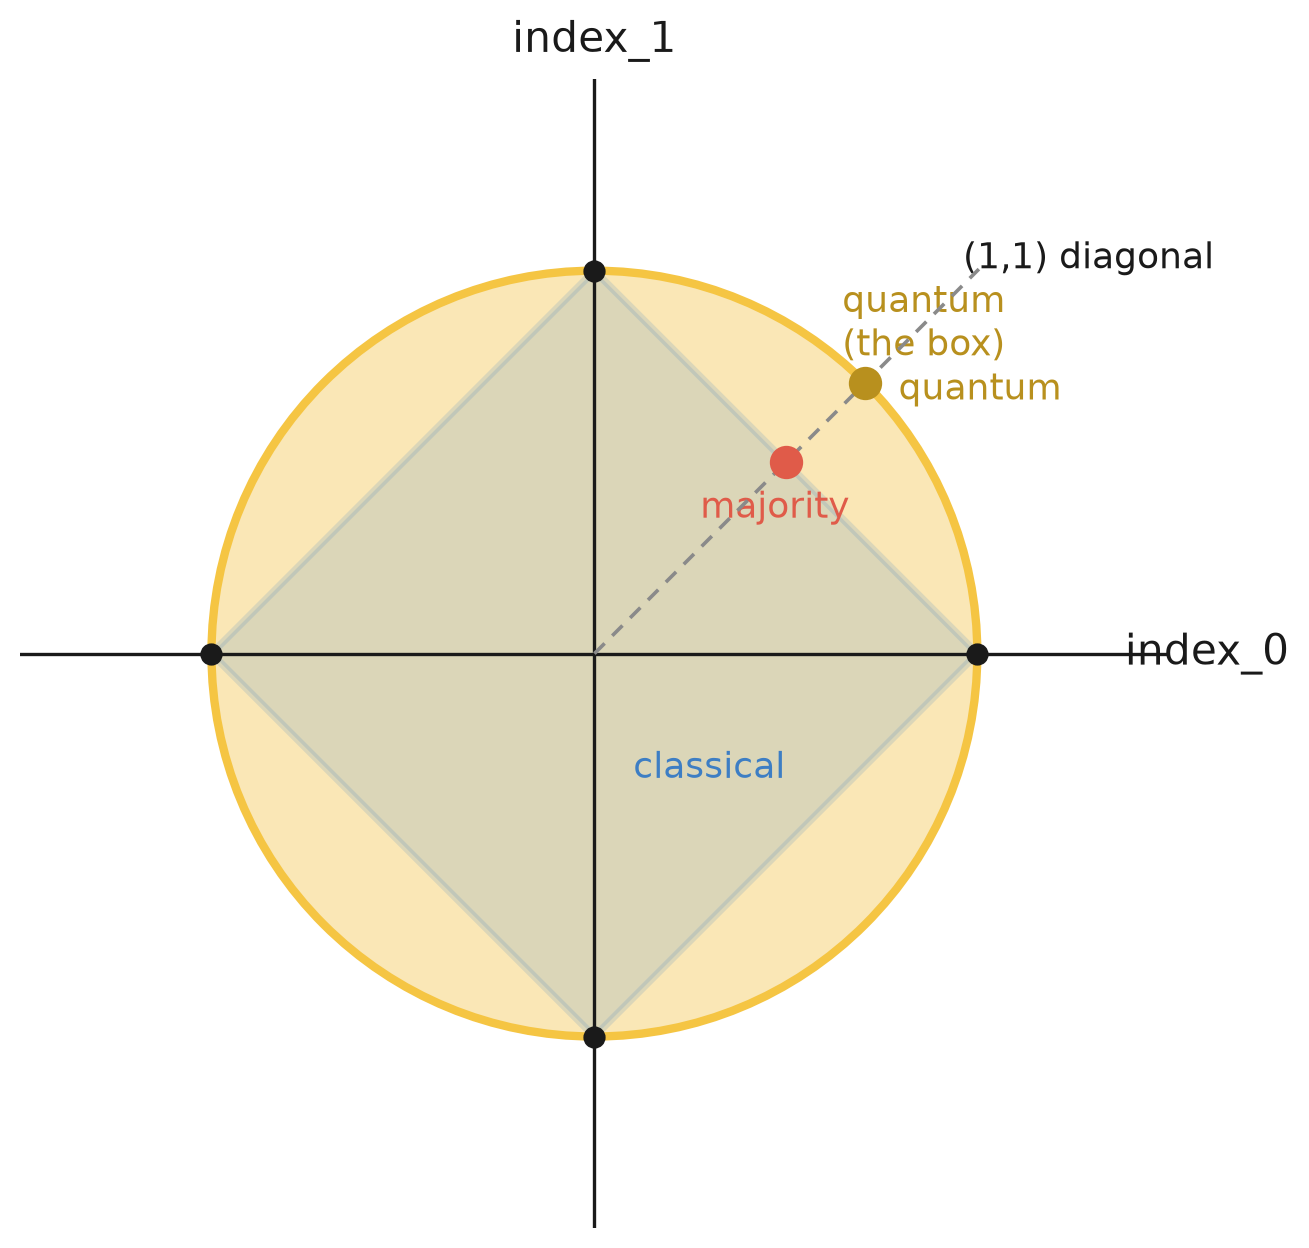
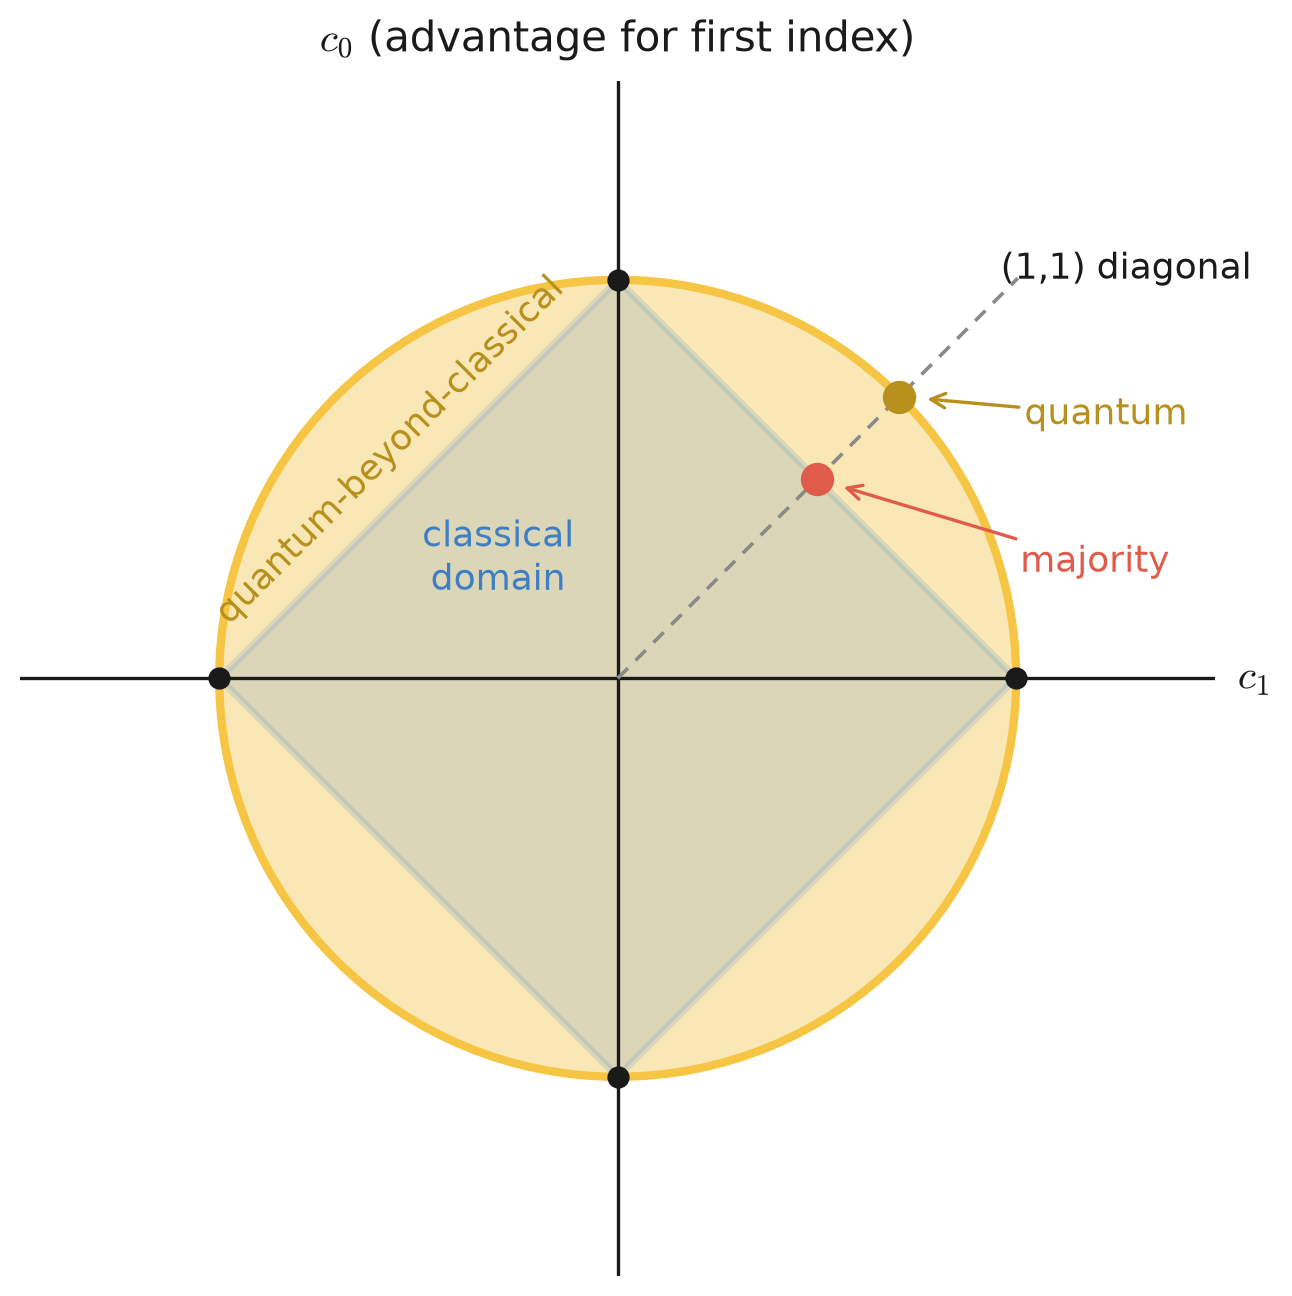
update

Changed region(s): [[0.031, 0.0, 0.9907, 0.9688], [0.2477, 0.2812, 0.2786, 0.3125], [0.2477, 0.0312, 0.2786, 0.0625]]

diff --git a/2D_primitive_image_mpltlib.py b/2D_primitive_image_mpltlib.py
@@ -39,7 +39,7 @@ SHOW_DIAGONAL   = True      # the (1,1) diagonal callout, matching 3D (1,1,1)
 SHOW_MAJORITY   = True
 SHOW_QUANTUM    = True
 SHOW_LABELS     = True
-AXIS_LABELS     = ("index_0", "index_1")
+AXIS_LABELS     = (r"$c_1$", r"$c_0$ (advantage for first index)")
 LIM = 1.5
 AXIS_LEN = 1.5
 # =====================================================================
@@ -101,21 +101,25 @@ def main():
         q = 1/np.sqrt(2)
         ax.plot(q, q, 'o', color=C_QUANTUM, markersize=11, zorder=7)
         if SHOW_LABELS:
-            ax.annotate("quantum", (q, q), xytext=(12, -6),
-                        textcoords="offset points", color=C_QUANTUM, fontsize=13)
+            ax.annotate("quantum", (q, q), xytext=(45, -10),
+                        textcoords="offset points", color=C_QUANTUM, fontsize=13,
+                        arrowprops=dict(arrowstyle="->", color=C_QUANTUM, lw=1.2,
+                                        shrinkA=0, shrinkB=10))
 
     # majority at (1/2,1/2) -- RED, matching 3D
     if SHOW_MAJORITY:
         ax.plot(0.5, 0.5, 'o', color=C_MAJORITY, markersize=11, zorder=7)
         if SHOW_LABELS:
-            ax.annotate("majority", (0.5, 0.5), xytext=(-4, -20),
+            ax.annotate("majority", (0.5, 0.5), xytext=(100, -30),
                         textcoords="offset points", color=C_MAJORITY,
-                        fontsize=13, ha="center")
+                        fontsize=13, ha="center", va="center",
+                        arrowprops=dict(arrowstyle="->", color=C_MAJORITY, lw=1.2,
+                                        shrinkA=0, shrinkB=10))
 
     if SHOW_LABELS:
-        ax.text(0.86, 0.86, "quantum\n(the box)", color=C_QUANTUM,
-                fontsize=13, ha="center", va="center")
-        ax.text(0.30, -0.30, "classical", color=C_POLY,
+        ax.text(-0.57, 0.57, "quantum-beyond-classical", color=C_QUANTUM,
+                fontsize=13, ha="center", va="center", rotation = 45)
+        ax.text(-0.30, +0.30, f"classical\ndomain", color=C_POLY,
                 fontsize=13, ha="center", va="center")
 
     for s in ax.spines.values():

diff --git a/pyvista_script.py b/pyvista_script.py
@@ -150,11 +150,17 @@ def main():
                            line_width=2, opacity=0.7)
 
     # --- axes through origin, extended beyond the sphere ---
-    for u, lab in [((1,0,0), "index_0"), ((0,1,0), "index_1"), ((0,0,1), "index_2")]:
+    # PyVista/VTK labels do not support true LaTeX mathtext in point labels.
+    # Draw base "c" plus a smaller offset digit to mimic a true subscript.
+    for u, idx in [((1,0,0), "2"), ((0,1,0), "0"), ((0,0,1), "1")]:
         u = np.array(u, float)
         line = pv.Line(-AXIS_LEN*u, AXIS_LEN*u)
         p.add_mesh(line, color=C_AXIS, line_width=3)
-        p.add_point_labels([1.6*u], [lab], font_size=28,
+        anchor = 1.6*u
+        p.add_point_labels([anchor], ["c"], font_size=28,
+                           text_color=C_AXIS, shape=None,
+                           show_points=False, always_visible=True)
+        p.add_point_labels([anchor + np.array([0.05, -0.04, 0.0])], [idx], font_size=18,
                            text_color=C_AXIS, shape=None,
                            show_points=False, always_visible=True)
 
@@ -181,6 +187,11 @@ def main():
             p.add_point_labels([[q,q,q+0.15]], ["quantum"], font_size=24,
                             text_color=C_QUANTUM, shape=None,
                             show_points=False, always_visible=True)
+
+    p.add_legend(labels=[
+        ["classical domain", C_POLY, "rectangle"],
+        ["quantum domain", C_SPHERE, "rectangle"],
+    ], loc="lower left", bcolor="white", border=True, size=(0.28, 0.12))
 
     # --- lighting ---
     p.remove_all_lights()

diff --git a/Quantum advantage in a (Q)SeaBattle game.md b/Quantum advantage in a (Q)SeaBattle game.md
@@ -6,7 +6,7 @@ Stripped of the ships, the QSeaBattle game is a 'random access code' [1]: Alice 
 
 In this post, we will discuss what happens when Alice and Bob share an entangled quantum resource. The short version: the moment their shared resource crosses out of the classical world, they beat the majority strategy — and, as we will see, while a quantum resource helps Bob guess the bit at his index, it does not actually give him more information about Alice's bit string.
 
-For any strategy and any single bit, we can score how well Bob tracks that bit with one number, the *advantage*, running from $-1$ to $+1$. Zero is a pure guess — Bob knows nothing, and wins half the time. Plus one is certainty — Bob is always right. Minus one is its mirror — Bob is always *wrong*. So the sign tells us which way Bob points his knowledge, and the magnitude tells us how much he has. Advantage is the win rate rescaled, $P = \tfrac12(1 + c)$.
+For any strategy and any single bit, we can score how well Bob tracks that bit with one number, the *advantage*, running from $-1$ to $+1$. Zero is a pure guess — Bob knows nothing, and wins half the time. Plus one is certainty — Bob is always right. Minus one is its mirror — Bob is always *wrong*. So the sign tells us which way Bob points his knowledge, and the magnitude tells us how much he has. Advantage for a given index (indicated with $c_i$)is the win rate rescaled, $P_i = \tfrac12(1 + c_i)$.
 
 ### A magical box for two bits
 
@@ -18,26 +18,26 @@ Alice's dial does not decide *which* bit Bob receives — Bob does that, after h
 
 ### The dial draws a sphere
 
-The dial is not just a metaphor — it is the picture. Give the strategy its two advantages: how strongly Bob's output tracks Alice's first bit, and her second. Call the advantages for the two indices $(\text{index}_0, \text{index}_1)$. As Alice sweeps her dial from pole to pole through angle $\theta$, these are
+The dial is not just a metaphor — it is the picture. Give the strategy its two advantages: how strongly Bob's output tracks Alice's first bit, and her second. Call the advantages for the two indices $(c_0, c_1)$. As Alice sweeps her dial from pole to pole through angle $\theta$, these are
 
-$$\text{index}_0 = \cos\theta, \qquad \text{index}_1 = \sin\theta,$$
+$$c_0 = \cos\theta, \qquad c_1 = \sin\theta,$$
 
-so $\text{index}_0^2 + \text{index}_1^2 = 1$. Every dial setting is a point on a *circle* in this advantage plane. The two poles are the two clean bits; the equator is the even blend. Note that the total is fixed at one — Alice chooses its *direction*, never its length.
+so $c_0^2 + c_1^2 = 1$. Every dial setting is a point on a *circle* in this advantage plane. The two poles are the two clean bits; the equator is the even blend. Note that the total is fixed at one — Alice chooses its *direction*, never its length.
 
-Now overlay what a classical resource can reach. Without the box, Alice's one bit can lean toward one cell or the other, but it must trade — the sum $|\text{index}_0| + |\text{index}_1|$ cannot exceed one, so the classical strategies fill a diamond. Majority sits at the $(1,1)$ direction of that diamond, where the advantage is spread evenly across the indices. The circle bulges outside the diamond everywhere except at the four corners, where they touch. Those corners are exactly the classical strategies that give up on one bit entirely to nail the other. Everywhere in between, the circle is strictly further out.
+Now overlay what a classical resource can reach. Without the box, Alice's one bit can lean toward one cell or the other, but it must trade — the sum $|c_0| + |c_1|$ cannot exceed one, so the classical strategies fill a diamond. Majority sits at the $(1,1)$ direction of that diamond, where the advantage is spread evenly across the indices. The circle bulges outside the diamond everywhere except at the four corners, where they touch. Those corners are exactly the classical strategies that give up on one bit entirely to nail the other. Everywhere in between, the circle is strictly further out.
 
-That crescent between diamond and circle is the whole point. Every strategy inside it is reachable with the quantum device and *impossible* classically — no classical resource ever pushes past $|\text{index}_0| + |\text{index}_1| = 1$. So the advantage is not a number, it is a region, and the region is precisely quantum-beyond-classical. It appears already at $n=2$, the smallest game there is.
+That crescent between diamond and circle is the whole point. Every strategy inside it is reachable with the quantum device and *impossible* classically — no classical resource ever pushes past $|c_0| + |c_1| = 1$. So the advantage is not a number, it is a region, and the region is precisely quantum-beyond-classical. It appears already at $n=2$, the smallest game there is.
 
 ![alt text](Figure_1-1.png)
 > **[FIGURE 1 — the 2D primitive]**
-> **Caption:** *Two bits, two advantages $(index_0, index_1)$. Classical strategies fill the diamond $|index_0| + |index_1| \le 1$; Alice's dial traces the circle $index_0^2 + index_1^2 = 1$. The crescent between them — reachable by the box, impossible classically — is the quantum-beyond-classical region.*
+> **Caption:** *Two bits, two advantages $(c_0, c_1)$. Classical strategies fill the diamond $|c_0| + |c_1| \le 1$; Alice's dial traces the circle $c_0^2 + c_1^2 = 1$. The crescent between them — reachable by the box, impossible classically — is the quantum-beyond-classical region.*
 > **Alt-text:** A square diamond inscribed in a circle. The circle touches the diamond at its four vertices and bulges outside it along every edge; the crescent region between diamond edge and circle arc is shaded to mark where quantum reaches and classical cannot.
 
 Now consider what the box does on three bits. Here the latitude-and-longitude language pays off. For two bits Alice needed only one angle — a circle is a globe seen edge-on. Pawłowski and Żukowski's second primitive [2] handles *three* bits, and there Alice uses the full dial, both latitude and longitude, to aim anywhere on an actual sphere. The three advantages $(c_0, c_1, c_2)$ now satisfy $c_0^2 + c_1^2 + c_2^2 = 1$, and the classical reachable set is an octahedron sitting inside that sphere, the two touching only at the six poles. Same box, same crescent, one dimension higher.
 
 ![alt text](Figure_2-1.png)
 > **[FIGURE 2 — the 3D primitive]**
-> **Caption:** *Three bits, three advantages. Alice's full dial (latitude and longitude) reaches any point on the sphere $index_0^2 + index_1^2 + index_2^2 = 1$; the classical polytope sits inside it, the two touching only at the six poles.*
+> **Caption:** *Three bits, three advantages. Alice's full dial (latitude and longitude) reaches any point on the sphere $c_0^2 + c_1^2 + c_2^2 = 1$; the classical polytope sits inside it, the two touching only at the six poles.*
 > **Alt-text:** An polytope inscribed in a sphere, touching at its six vertices, the sphere bulging outside every triangular face.
 
 So the pattern is not an accident of two bits. Wherever the classical strategies fill a flat-faced polytope, the box rounds it out to a sphere — and a sphere always contains more.
@@ -48,22 +48,28 @@ So, does the quantum version win by telling Bob more (by sharing more informatio
 
 It does not. Alice still sends one bit, with the same balanced statistics as before — averaged over everything, Bob learns exactly as much about her board as majority told him. The box does not stuff more of the board into the message.
 
-To see this properly, let us look at what Bob Alice's communication does with Bob's informayion. Iniyiallu uniform (see fig x). Give him Alice's bit and let him form a posterior — a probability over which string she holds — and put Shannon's number next to it. This is fogure Y.
+To see this properly, let us look at what Bob Alice's communication does with Bob's informayion. Figure 3 shows how initially (before Alice shares any information) Bob's knowledge is uniformly distribution, each board is equally likely. 
 
-Classically Bob has *one* lookup table, fixed when they agreed the strategy. It almost feels too intuitive to state tha the lookup is defined when Alices creates her bit. Whatever index he is later handed, he reads the same table, so his posterior is the same histogram every time, with the same entropy. His decoder was frozen at coding.
+![alt text](Figure_3-1.png)
+> **[FIGURE 3 — Uniform posterior for a 4 cell board]**
 
-Fig x Before any info
-Fig y Majority strategy
+Based on Alice's bit Bob can form a posterior — a probability over which string she holds — and put Shannon's number next to it. In Figure 4 we show Bob's posterior if Alice sends a '1' based on the classical majority strategy. He know that she does not hold a board with zero or one '1', and more likely to hold a board with a majority of 1's than a tied board.
 
-The box changes one thing: Bob has *two* tables, and he picks which to read after he sees his index. Take the two-bit primitive, where it is starkest. If Bob selects Alice's first bit, his posterior on that bit sharpens — the histogram piles up, entropy drops to about $0.60$ bits — but his posterior on the second bit goes flat, a full $1.00$ bit of uncertainty, a coin. Select the other and the two swap. He can make one bit sharp only by leaving the other blank. What he cannot do is beat the total: the two tables carry the same information between them that the one classical table did. Nothing was added to the message.
+![alt text](Figure_4-1.png)
+> **[FIGURE 4 — Majority posterior for a 4 cell board]**
 
-Figure Z shows this figure
-Figure Z- the box for hybrid srategy
-> **[FIGURE 4 — what Bob knows]**
-> **Caption:** *Bob's posterior over Alice's strings, with Shannon entropy alongside. Left: the single classical table — one fixed histogram, read no matter which index Bob is asked. Right: the box's two tables — Bob slides the sharp posterior onto the bit he actually wants (entropy $\approx 0.60$ bits) at the cost of a flat posterior on the other ($1.00$ bit). Same total information, reallocated after the fact.*
-> **Alt-text:** Two side-by-side panels of bar histograms over Alice's strings. Left panel: one histogram labelled 'one table, fixed at coding', with an entropy value. Right panel: two histograms labelled 'table A' and 'table B', one sharply peaked (low entropy) and one nearly flat (high entropy), with an arrow labelled 'Bob picks after seeing his index'.
+Classically Bob has *one* lookup table, fixed when they agreed the strategy. It almost feels too intuitive to state that the lookup is defined when Alices creates her bit. Whatever index he is later handed, he reads the same table, so his posterior is the same histogram every time, with the same entropy. His decoder was frozen at coding.
 
-So the quantum advantage is not that Bob is told more. It is that classically the decoder is spent at coding — one table, no take-backs — while the quantum device lets Bob spend the same budget *after* he knows which bit he wants. He moves his certainty onto the cell that turned out to matter, and accepts ignorance on the one that did not. And all of this without a signal travelling from Bob back to Alice; his choice reaches back through the shared box, not through a wire.
+
+The box changes one thing: Bob has *two* tables, and he picks which to read after he sees his index. Take the two-bit primitive, where it is starkest. If Bob selects one index, his posterior on that index sharpens — the histogram piles up, entropy drops — but his posterior on the another bit goes flat. Select the other indexand the two swap. He can make one bit sharp only by leaving the other blank. What he cannot do is beat the total: the two tables carry the same information between them that the one classical table did. Nothing was added to the message.
+
+Figure 4 shows how we apply this to the last two indices of the 4 cell board. For the first two indeces Alice follows the majority strategy, and if these indices tie she applies the 2 bit quantum primitive (the one we show in Figure 1) to the last two bits. We see that Bob can tune his knowledge to peak at either the 3rd or 4th index. He can — after the fact  — change the meaning of Alice's bit. The total information he has on Alice's board does not change. 
+
+![alt text](Figure_5-1.png)
+> **[FIGURE 5 — Bob's posterior for the quantum strategy]**
+
+
+So the quantum advantage is not that Bob is told more. It is that classically the decoder is spent at coding — one table, no take-backs — while the quantum device lets Bob spend the same budget *after* he knows which bit he wants. He moves his certainty onto the cell that turned out to matter, and accepts ignorance on the one that did not. And all of this without a signal travelling from Bob back to Alice.
 
 That, in one sentence, is what people mean by 'quantum advantage' in this game. Not more information — better-timed information.
 
@@ -74,9 +80,9 @@ We started with a coin that could protect Alice and Bob but never help them win.
 We have drawn the quantum boundary as a sphere — the outer edge of what the box can reach. But is that sphere really the edge of the *possible*? Nothing in the game so far forbids a stronger resource, one that would bulge past even the sphere, handing Bob correlations no quantum state can. Nature, it appears, refuses to go there — the sphere is exactly as far as it lets us reach, and not one step further. Why the boundary sits *there*, and what would go wrong if it did not, is the question we will pick up next, when we introduce post-quantum resources.
 
 ![Link to QSeaBattle repo on GitHub with icon, link and QR code.
-](Figure_7-1.JPG)
+](Figure_6-1.JPG)
 
-> **Figure 7:** Find out more about QSeaBattle on the GitHub repo.
+> **Figure 6:** Find out more about QSeaBattle on the GitHub repo.
 
 ### References
 
